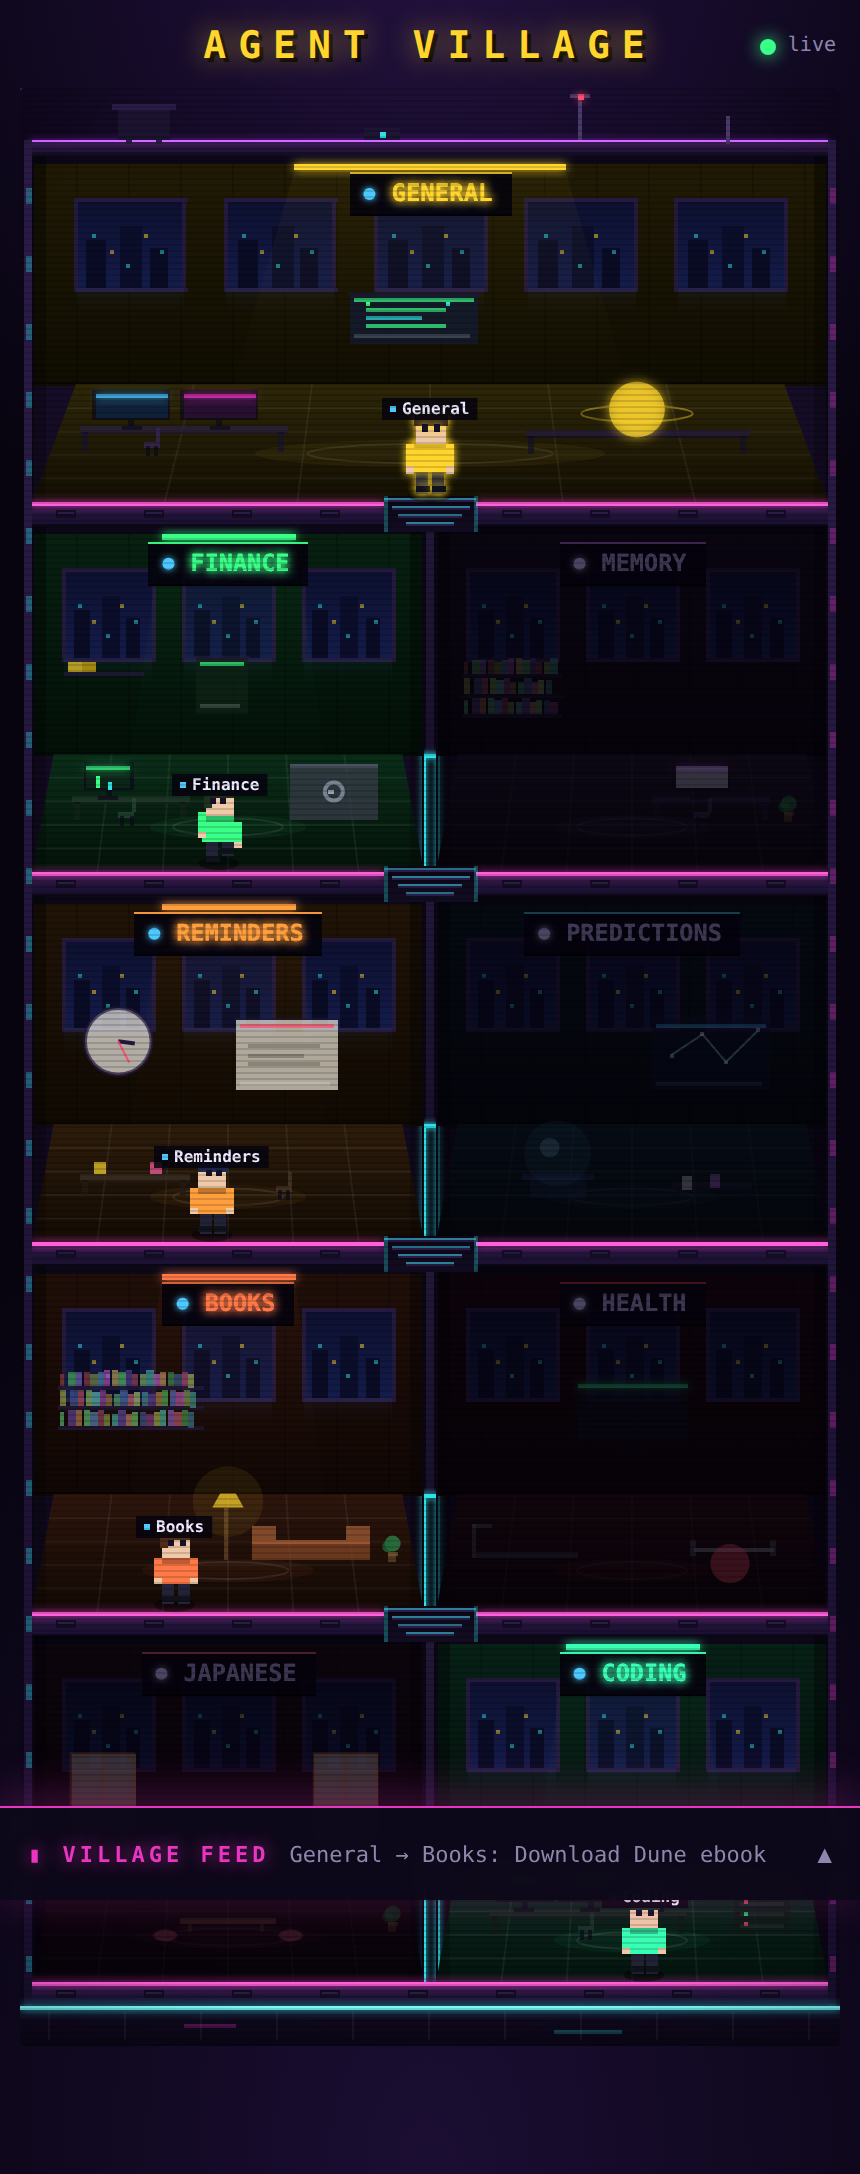
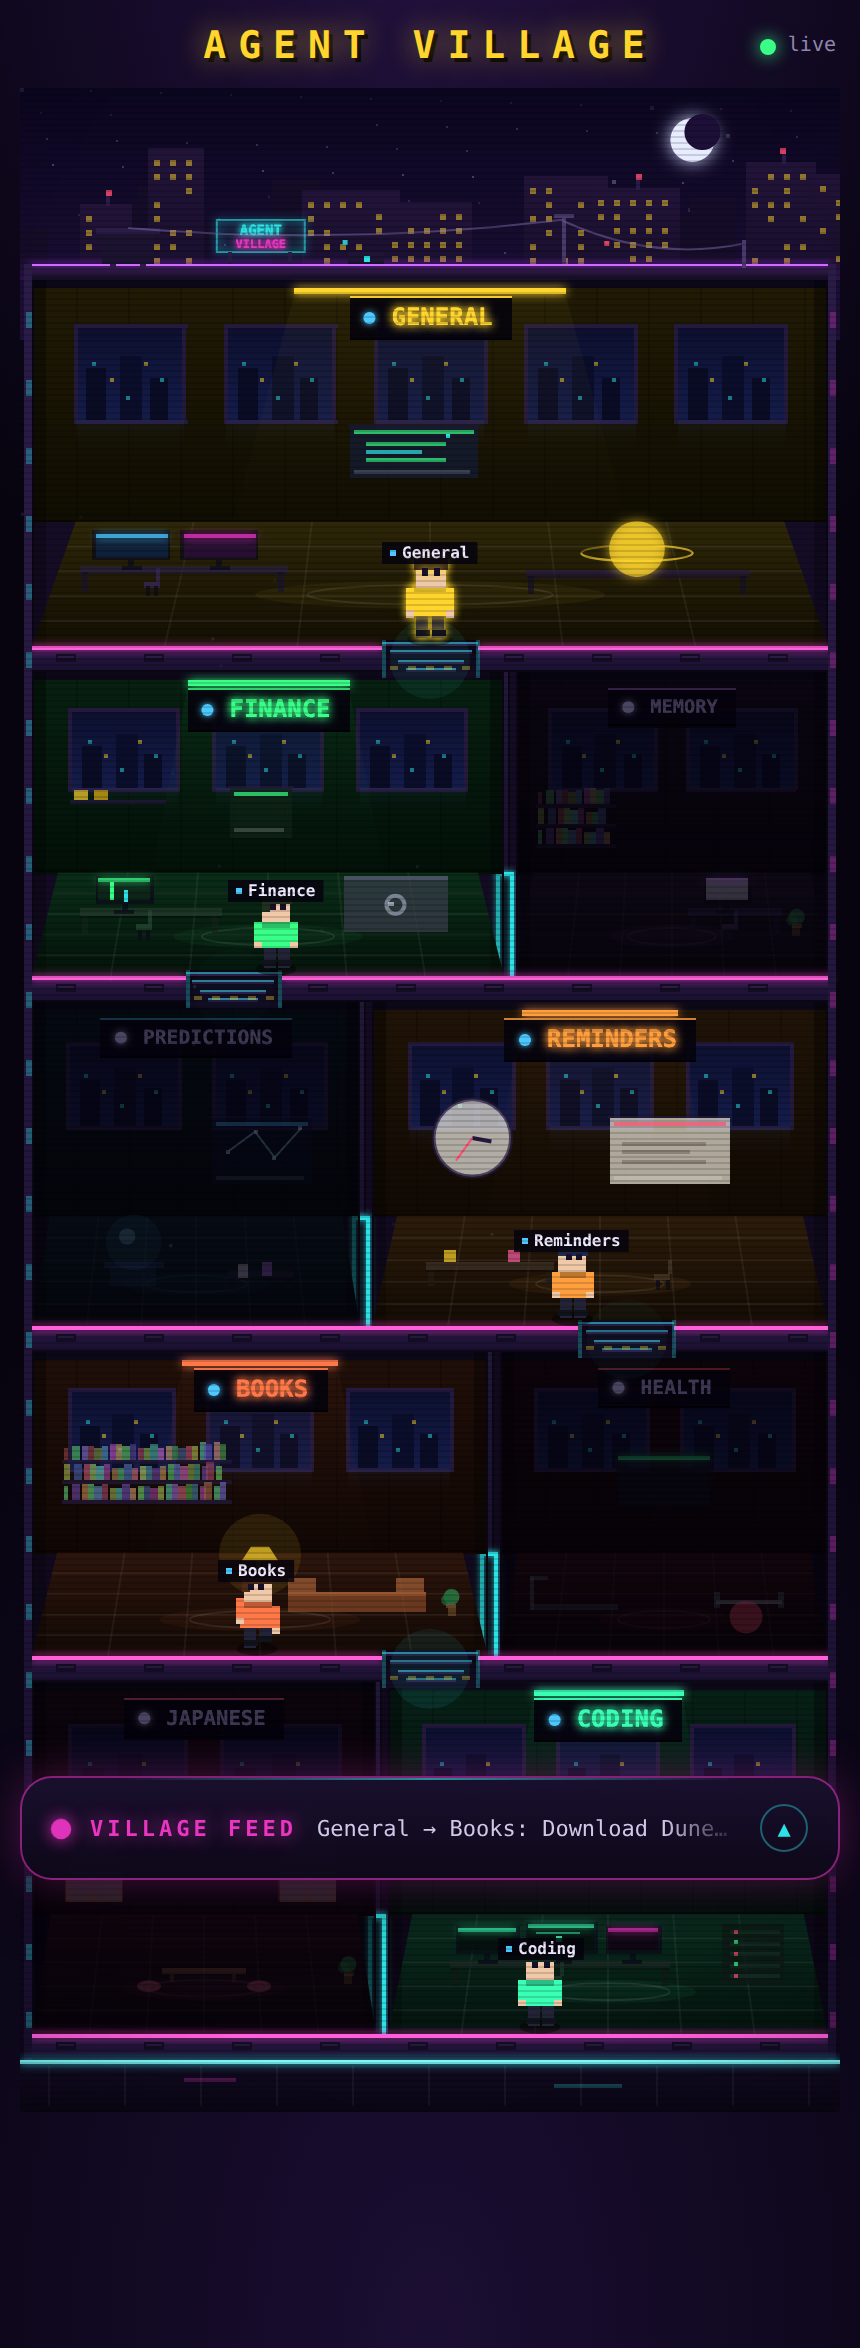
Complex layered design: parallax city, irregular floor plan, zigzag stairs, floating dock
- New sky band above the roof: gradient night sky, stars, moon, two parallax
  city silhouette layers with lit windows and beacon antennas, rooftop
  AGENT VILLAGE holo-billboard, sagging power cables with blinking lights
- Irregular floor plan: per-floor height multipliers and per-room width
  fractions (Finance 60/Memory 40, Predictions 42/Reminders 58, Books 58/
  Health 42, Japanese 44/Coding 56) driven by a LAYOUT spec
- Stairwells offset per floor (center/left/right/center) so General zigzags
  through rooms and staircases when delegating; hazard chevrons + glow pulse
  on stair openings; multi-floor route planner (routeFloors)
- Atmosphere layer: drifting dust motes through the interior, stairwell glow
  pulses, cable blink lights
- Floating pill feed dock (rounded, neon border, pulse dot, circled chevron,
  fade-out marquee) + page bottom padding so the ground floor is never hidden

diff --git a/index.html b/index.html
@@ -16,7 +16,7 @@
     radial-gradient(120% 60% at 50% -5%,#241242 0%,transparent 60%),
     radial-gradient(130% 90% at 50% 100%,#1b0e33 0%,var(--bg0) 60%),var(--bg0);
     color:var(--ink);font-family:ui-monospace,"SF Mono",Menlo,Consolas,monospace;-webkit-font-smoothing:none}
-  .wrap{max-width:520px;margin:0 auto;padding:12px 10px calc(64px + env(safe-area-inset-bottom))}
+  .wrap{max-width:520px;margin:0 auto;padding:12px 10px calc(118px + env(safe-area-inset-bottom))}
   header{display:flex;align-items:center;justify-content:center;position:relative;margin-bottom:10px}
   h1{font-size:19px;margin:0;letter-spacing:6px;color:var(--gold);font-weight:800;
     text-shadow:0 0 14px rgba(255,213,46,.65),2px 2px 0 #000}
@@ -40,15 +40,24 @@
     border:6px solid transparent;border-top-color:#f8f4ff;border-bottom:0}
   .bubble.show{opacity:1}
 
-  /* ---------- village feed dock ---------- */
-  .dock{position:fixed;left:0;right:0;bottom:0;z-index:20;max-width:520px;margin:0 auto;
-    background:rgba(13,8,26,.97);border-top:1px solid var(--pink);
-    box-shadow:0 -4px 26px rgba(233,53,193,.28);backdrop-filter:blur(6px);
-    padding-bottom:env(safe-area-inset-bottom)}
-  .dock .bar{display:flex;align-items:center;gap:10px;height:46px;padding:0 14px;cursor:pointer;user-select:none}
-  .dock .bar .t{font-size:11px;font-weight:800;letter-spacing:2px;color:var(--pink);text-shadow:0 0 9px rgba(233,53,193,.75)}
-  .dock .bar .last{flex:1;font-size:11px;color:var(--muted);white-space:nowrap;overflow:hidden;text-overflow:ellipsis}
-  .dock .bar .chev{transition:transform .25s;color:var(--muted);font-size:12px}
+  /* ---------- village feed dock (floating pill) ---------- */
+  .dock{position:fixed;left:50%;transform:translateX(-50%);bottom:calc(10px + env(safe-area-inset-bottom));
+    z-index:20;width:calc(100% - 20px);max-width:500px;
+    background:linear-gradient(180deg,rgba(26,16,46,.97),rgba(14,8,26,.97));
+    border:1px solid rgba(233,53,193,.55);border-radius:16px;overflow:hidden;
+    box-shadow:0 0 22px rgba(233,53,193,.30),0 8px 30px rgba(4,2,12,.7);backdrop-filter:blur(8px)}
+  .dock .bar{display:flex;align-items:center;gap:10px;height:50px;padding:0 15px;cursor:pointer;user-select:none;position:relative}
+  .dock .bar::before{content:"";position:absolute;top:0;left:12%;right:12%;height:1px;
+    background:linear-gradient(90deg,transparent,rgba(45,226,230,.6),transparent)}
+  .dock .bar .pulse{width:9px;height:9px;border-radius:50%;background:var(--pink);flex:none;
+    box-shadow:0 0 8px var(--pink);animation:dockpulse 2.2s ease-in-out infinite}
+  @keyframes dockpulse{0%,100%{opacity:.5;transform:scale(.85)}50%{opacity:1;transform:scale(1.15)}}
+  .dock .bar .t{font-size:11px;font-weight:800;letter-spacing:2px;color:var(--pink);text-shadow:0 0 9px rgba(233,53,193,.75);flex:none}
+  .dock .bar .last{flex:1;font-size:11px;color:#cfc8e8;white-space:nowrap;overflow:hidden;text-overflow:ellipsis;
+    -webkit-mask-image:linear-gradient(90deg,#000 82%,transparent)}
+  .dock .bar .chev{transition:transform .25s;color:var(--cyan);font-size:11px;flex:none;
+    width:24px;height:24px;border:1px solid rgba(45,226,230,.4);border-radius:50%;
+    display:flex;align-items:center;justify-content:center}
   .dock.open .bar .chev{transform:rotate(180deg)}
   .dock .body{height:0;overflow:hidden;transition:height .28s ease}
   .dock.open .body{height:44vh}
@@ -101,7 +110,8 @@
 
 <div class="dock" id="dock">
   <div class="bar" id="dockBar">
-    <span class="t">▮ VILLAGE FEED</span>
+    <span class="pulse"></span>
+    <span class="t">VILLAGE FEED</span>
     <span class="last" id="dockLast">no delegations yet</span>
     <span class="chev">▲</span>
   </div>
@@ -125,8 +135,20 @@ const bubble=document.getElementById('bubble');
 const connEl=document.getElementById('conn'), connText=document.getElementById('connText');
 
 let AGENTS=[], byId={}, rooms={};
-let W=0,H=0,dpr=1, floorH=0, shaftX=0, shaftW=0, roofH=34, groundH=20, slabH=12;
+let W=0,H=0,dpr=1, floorH=0, shaftX=0, shaftW=0, roofH=96, groundH=26, slabH=13;
 const FLOORS=5;
+/* Irregular floor plan: per-floor height multiplier + room widths (fractions).
+   STAIRX: x-fraction of the stairwell in the slab BELOW each floor — offset
+   per floor so General zigzags down through the building. */
+const LAYOUT=[
+  {f:5,hMul:1.14,rooms:[['general',1]]},
+  {f:4,hMul:0.96,rooms:[['finance',0.60],['memory',0.40]]},
+  {f:3,hMul:1.02,rooms:[['predictions',0.42],['reminders',0.58]]},
+  {f:2,hMul:0.96,rooms:[['books',0.58],['health',0.42]]},
+  {f:1,hMul:1.10,rooms:[['japanese',0.44],['coding',0.56]]},
+];
+const STAIRX={5:0.50,4:0.26,3:0.74,2:0.50};
+let FLOORS_GEO=[]; // computed: {f,top,h,feetY,stairAbsX,walls:[x,...]}
 const seenDeleg=new Set();
 const DOT_HEX={working:'#39ff88',active:'#39ff88',idle:'#ff9e3d',afk:'#4dc9ff',offline:'#4a4560'};
 
@@ -146,26 +168,33 @@ async function boot(){
 /* ============ layout ============ */
 function layout(){
   W=stage.clientWidth;
-  floorH=Math.max(150,Math.min(235,Math.round(W*0.45)));
-  H=roofH+FLOORS*floorH+groundH;
+  floorH=Math.max(140,Math.min(225,Math.round(W*0.42)));
+  const wall=6, innerX=6, innerW=W-12;
+  // accumulate floor tops from the roof down using per-floor multipliers
+  let y=roofH; FLOORS_GEO=[]; rooms={};
+  LAYOUT.forEach(spec=>{
+    const fh=Math.round(floorH*spec.hMul), h=fh-slabH, feetY=y+h-5;
+    const geo={f:spec.f,top:y,h,feetY,stairAbsX:(STAIRX[spec.f]!=null?STAIRX[spec.f]*W:null),walls:[]};
+    let cx=innerX;
+    spec.rooms.forEach(([id,frac],i)=>{
+      let w=Math.round(innerW*frac)-(i<spec.rooms.length-1?wall/2:0);
+      if(i>0){cx+=wall; w-=wall/2;}
+      rooms[id]={x:cx,y,w,h,feetY,cx:cx+w/2,floor:spec.f,
+        walkMin:cx+w*0.10,walkMax:cx+w*0.90};
+      cx+=w;
+      if(i<spec.rooms.length-1)geo.walls.push(cx);
+    });
+    FLOORS_GEO.push(geo);
+    y+=fh;
+  });
+  H=y+groundH;
   stage.style.height=H+'px';
   dpr=Math.min(window.devicePixelRatio||1,2);
   for(const c of [bg,fg]){c.width=W*dpr;c.height=H*dpr;}
   bctx.setTransform(dpr,0,0,dpr,0,0); fctx.setTransform(dpr,0,0,dpr,0,0);
-  // connected rooms: a thin shared wall in the center instead of a shaft
-  shaftW=6; shaftX=Math.round(W/2-shaftW/2);
-  rooms={};
-  AGENTS.forEach(a=>{
-    const top=roofH+(FLOORS-a.floor)*floorH, h=floorH-slabH;
-    let x,w;
-    if(a.slot==='full'){x=6;w=W-12;}
-    else if(a.slot==='left'){x=6;w=shaftX-6;}
-    else {x=shaftX+shaftW;w=W-6-x;}
-    const feetY=top+h-5;
-    rooms[a.id]={x,y:top,w,h,feetY,cx:x+w/2,walkMin:x+w*0.10,walkMax:x+w*0.90};
-  });
   drawBackground();
 }
+function floorGeo(f){return FLOORS_GEO.find(g=>g.f===f);}
 
 /* ============ paint helpers ============ */
 function R(ctx,x,y,w,h,c){ctx.fillStyle=c;ctx.fillRect(Math.round(x),Math.round(y),Math.ceil(w),Math.ceil(h));}
@@ -183,71 +212,118 @@ function litFactor(st){return st==='working'||st==='active'?1:st==='idle'?0.72:s
 /* ============ background: the building ============ */
 function drawBackground(){
   bctx.clearRect(0,0,W,H);
-  // distant stars
-  for(let i=0;i<46;i++){const sx=(i*97)%W,sy=(i*61)%H;R(bctx,sx,sy,1,1,'rgba(190,170,255,.16)');}
+  drawSky();
   // building body
   vgrad(bctx,5,roofH-4,W-10,H-roofH-groundH+8,'#160d28','#0e0819');
-  drawRoof(); drawShaft();
+  drawRoofDeco(); drawWalls();
   AGENTS.forEach(a=>drawRoom(a));
-  drawSlabs(); drawFrame(); drawGround();
+  drawSlabs(); drawFrame(); drawGround(); drawCables();
 }
 
-function drawRoof(){
+/* --- layered sky: gradient, stars, moon, two parallax city silhouettes --- */
+function drawSky(){
+  vgrad(bctx,0,0,W,roofH+30,'#0b0620','#1d1038');
+  for(let i=0;i<70;i++){const sx=(i*89)%W,sy=(i*53)%(roofH-8);
+    R(bctx,sx,sy,i%9===0?1.6:1,i%9===0?1.6:1,`rgba(200,185,255,${0.10+(i%5)*0.05})`);}
+  // moon with glow
+  bctx.save();bctx.shadowColor='#cfd6ff';bctx.shadowBlur=18;
+  bctx.fillStyle='#e8ecff';bctx.beginPath();bctx.arc(W*0.82,26,11,0,7);bctx.fill();bctx.restore();
+  bctx.fillStyle='#1d1038';bctx.beginPath();bctx.arc(W*0.82+5,22,9,0,7);bctx.fill();
+  // far city (darkest, small)
+  bctx.fillStyle='#150c28';
+  for(let i=0;i<14;i++){const bw2=14+(i*37)%22, bx=(i*67)%W, bh2=18+(i*29)%26;
+    bctx.fillRect(bx,roofH-8-bh2,bw2,bh2+8);}
+  // near city (lighter, taller, lit windows + antenna dots)
+  for(let i=0;i<8;i++){
+    const bw2=26+(i*53)%30, bx=(i*111+30)%W, bh2=34+(i*41)%34;
+    vgrad(bctx,bx,roofH-4-bh2,bw2,bh2+4,'#221439','#180f2c');
+    for(let wy2=roofH-bh2+2;wy2<roofH-6;wy2+=7)
+      for(let wx2=bx+3;wx2<bx+bw2-3;wx2+=8)
+        if(hash2(wx2,wy2)<0.28)R(bctx,wx2,wy2,2.5,3,hash2(wy2,wx2)<0.5?'rgba(255,213,46,.5)':'rgba(45,226,230,.45)');
+    if(i%3===0){R(bctx,bx+bw2/2,roofH-10-bh2,1.5,7,'#2b1c47');R(bctx,bx+bw2/2-0.5,roofH-11-bh2,2.5,2.5,'rgba(255,77,109,.8)');}
+  }
+  // haze line where city meets roof
+  vgrad(bctx,0,roofH-14,W,14,'rgba(176,38,255,0)','rgba(176,38,255,.14)');
+}
+function hash2(i,j){let h=(i*374761393+j*668265263)^(i<<7);h=(h^(h>>13))*1274126177;return ((h^(h>>16))>>>0)/4294967295;}
+
+function drawRoofDeco(){
   R(bctx,5,roofH-8,W-10,6,'#241638'); R(bctx,5,roofH-8,W-10,1,'#b026ff');
   bctx.save();bctx.shadowColor='#b026ff';bctx.shadowBlur=6;R(bctx,5,roofH-8,W-10,1,'#d06bff');bctx.restore();
-  // water tank
-  R(bctx,W*0.12,roofH-26,26,18,'#1c1330');R(bctx,W*0.12-3,roofH-26,32,3,'#2b1c47');
-  R(bctx,W*0.12+4,roofH-8,3,2,'#2b1c47');R(bctx,W*0.12+19,roofH-8,3,2,'#2b1c47');
-  // antennas
-  R(bctx,W*0.68,roofH-30,2,22,'#4a3a6a');R(bctx,W*0.68-4,roofH-31,10,2,'#4a3a6a');
-  R(bctx,W*0.86,roofH-20,2,14,'#4a3a6a');
-  // AC units
-  R(bctx,W*0.42,roofH-14,18,6,'#1e1433');R(bctx,W*0.44,roofH-12,3,3,'#2de2e6');
+  R(bctx,W*0.10,roofH-26,26,18,'#1c1330');R(bctx,W*0.10-3,roofH-26,32,3,'#2b1c47'); // water tank
+  R(bctx,W*0.10+4,roofH-8,3,2,'#2b1c47');R(bctx,W*0.10+19,roofH-8,3,2,'#2b1c47');
+  R(bctx,W*0.66,roofH-32,2,24,'#4a3a6a');R(bctx,W*0.66-4,roofH-33,10,2,'#4a3a6a'); // antennas
+  R(bctx,W*0.88,roofH-20,2,14,'#4a3a6a');
+  R(bctx,W*0.40,roofH-14,18,6,'#1e1433');R(bctx,W*0.42,roofH-12,3,3,'#2de2e6');   // AC
+  // rooftop holo billboard
+  const bbx=W*0.24,bby=roofH-30;
+  R(bctx,bbx,bby,44,16,'rgba(45,226,230,.10)');
+  bctx.save();bctx.shadowColor='#2de2e6';bctx.shadowBlur=8;
+  bctx.strokeStyle='rgba(45,226,230,.6)';bctx.lineWidth=1;bctx.strokeRect(bbx,bby,44,16);bctx.restore();
+  neonText(bctx,'AGENT',bbx+22,bby+5.5,7,'#2de2e6',6);
+  neonText(bctx,'VILLAGE',bbx+22,bby+12.5,6,'#e935c1',6);
+  R(bctx,bbx+6,bby+16,2,6,'#2b1c47');R(bctx,bbx+36,bby+16,2,6,'#2b1c47');
 }
 
-function drawShaft(){
-  // shared center wall on split floors (1-4), with a neon-framed door opening
-  for(let f=1;f<FLOORS;f++){
-    const top=roofH+(FLOORS-f)*floorH, h=floorH-slabH;
-    vgrad(bctx,shaftX,top,shaftW,h,'#221838','#150e26');
-    R(bctx,shaftX,top,1,h,'#0a0614');R(bctx,shaftX+shaftW-1,top,1,h,'#0a0614');
-    // door opening at walk level
-    const dh=h*0.34, dy=top+h-dh;
-    R(bctx,shaftX-1,dy,shaftW+2,dh,'#07040f');
-    bctx.save();bctx.shadowColor='#2de2e6';bctx.shadowBlur=6;
-    R(bctx,shaftX-1,dy,shaftW+2,1.5,'#2de2e6');
-    R(bctx,shaftX-1,dy,1.5,dh,'#2de2e6');R(bctx,shaftX+shaftW-0.5,dy,1.5,dh,'#2de2e6');
-    bctx.restore();
+/* sagging power cables between rooftop masts (blink lights live in fg) */
+let CABLE_PTS=[];
+function drawCables(){
+  CABLE_PTS=[];
+  const runs=[[W*0.10+13,roofH-26,W*0.66,roofH-30],[W*0.66,roofH-30,W*0.88,roofH-18]];
+  bctx.strokeStyle='rgba(150,130,200,.4)';bctx.lineWidth=1;
+  for(const[ax,ay,bx2,by2] of runs){
+    bctx.beginPath();bctx.moveTo(ax,ay);
+    const mx=(ax+bx2)/2, my=Math.max(ay,by2)+9;
+    bctx.quadraticCurveTo(mx,my,bx2,by2);bctx.stroke();
+    CABLE_PTS.push([mx,my-2],[(ax+mx)/2,(ay+my)/2+1]);
   }
 }
 
+/* shared walls between rooms on each floor, with neon-framed door openings */
+function drawWalls(){
+  FLOORS_GEO.forEach(g=>{
+    g.walls.forEach(wx=>{
+      vgrad(bctx,wx-3,g.top,6,g.h,'#221838','#150e26');
+      R(bctx,wx-3,g.top,1,g.h,'#0a0614');R(bctx,wx+2,g.top,1,g.h,'#0a0614');
+      const dh=g.h*0.34, dy=g.top+g.h-dh;
+      R(bctx,wx-4,dy,8,dh,'#07040f');
+      bctx.save();bctx.shadowColor='#2de2e6';bctx.shadowBlur=6;
+      R(bctx,wx-4,dy,8,1.5,'#2de2e6');
+      R(bctx,wx-4,dy,1.5,dh,'#2de2e6');R(bctx,wx+2.5,dy,1.5,dh,'#2de2e6');
+      bctx.restore();
+    });
+  });
+}
+
 function drawSlabs(){
-  const gapW=46, gx=W/2-gapW/2;
-  for(let f=1;f<=FLOORS;f++){
-    const y=roofH+f*floorH-slabH;
-    const isBottom=(f===FLOORS);
-    // two slab segments with a stairwell gap in the middle (except ground slab)
-    const segs=isBottom?[[5,W-10]]:[[5,gx-5],[gx+gapW,W-(gx+gapW)-5]];
+  const gapW=48;
+  FLOORS_GEO.forEach((g,gi)=>{
+    const y=g.top+g.h;               // slab under this floor
+    const isBottom=(gi===FLOORS_GEO.length-1);
+    const sx0=g.stairAbsX, gx=sx0!=null?sx0-gapW/2:null;
+    const segs=(isBottom||gx==null)?[[5,W-10]]:[[5,gx-5],[gx+gapW,W-(gx+gapW)-5]];
     for(const[sx2,sw2] of segs){
+      if(sw2<=0)continue;
       vgrad(bctx,sx2,y,sw2,slabH,'#261741','#1a1030');
       R(bctx,sx2,y,sw2,1.5,'#e935c1');
       bctx.save();bctx.shadowColor='#e935c1';bctx.shadowBlur=8;R(bctx,sx2,y,sw2,1.5,'#ff5fd8');bctx.restore();
       R(bctx,sx2,y+slabH-1,sw2,1,'rgba(0,0,0,.5)');
       for(let x=sx2+13;x<sx2+sw2-14;x+=44){R(bctx,x,y+4,10,4,'#130c22');R(bctx,x+1,y+5,8,1,'#2b1c47');}
     }
-    if(!isBottom){
-      // stairwell opening: dark well + glowing steps
+    if(!isBottom&&gx!=null){
+      // stairwell opening with glowing steps
       vgrad(bctx,gx,y-3,gapW,slabH+6,'#0b0716','#120c22');
-      const steps=4;
-      for(let i=0;i<steps;i++){
-        const stw=gapW*(1-i*0.16), stx=W/2-stw/2, sty=y-2+i*(slabH+4)/steps;
+      for(let i=0;i<4;i++){
+        const stw=gapW*(1-i*0.16), stx=sx0-stw/2, sty=y-2+i*(slabH+4)/4;
         R(bctx,stx,sty,stw,2,'#2b1c47');
         R(bctx,stx,sty,stw,1,'rgba(45,226,230,.5)');
       }
       R(bctx,gx,y-3,1.5,slabH+6,'rgba(45,226,230,.3)');
       R(bctx,gx+gapW-1.5,y-3,1.5,slabH+6,'rgba(45,226,230,.3)');
+      // hazard chevrons on the opening edge
+      for(let cx2=gx+4;cx2<gx+gapW-6;cx2+=9)R(bctx,cx2,y+slabH-3,4,2,'rgba(255,213,46,.35)');
     }
-  }
+  });
 }
 
 function drawFrame(){
@@ -558,7 +634,26 @@ function drawAmbient(t){
   });
   // roof beacon
   if(Math.sin(t*2.6)>0.3){fctx.save();fctx.shadowColor='#ff4d6d';fctx.shadowBlur=8;
-    R(fctx,W*0.68,roofH-31,3,3,'#ff4d6d');fctx.restore();}
+    R(fctx,W*0.66,roofH-33,3,3,'#ff4d6d');fctx.restore();}
+  // blinking cable lights
+  CABLE_PTS.forEach((p,i)=>{
+    if(Math.sin(t*2+i*2.4)>0.4){fctx.fillStyle=i%2?'rgba(255,77,109,.85)':'rgba(45,226,230,.85)';
+      fctx.fillRect(p[0]-1,p[1]-1,2.5,2.5);}
+  });
+  // drifting dust motes through the building interior
+  for(let i=0;i<16;i++){
+    const mx=(hash2(i,5)*W+Math.sin(t*0.22+i*1.7)*26+t*3.4*(1+(i%3)*0.4))%W;
+    const my=roofH+((hash2(i,11)*(H-roofH-groundH))+Math.cos(t*0.18+i)*14+H)%(H-roofH-groundH);
+    const al=0.05+0.07*Math.max(0,Math.sin(t*0.8+i*2.2));
+    fctx.fillStyle=`rgba(200,190,255,${al})`;fctx.fillRect(mx,my,1.6,1.6);
+  }
+  // stairwell glow pulses
+  FLOORS_GEO.forEach((g,gi)=>{
+    if(gi===FLOORS_GEO.length-1||g.stairAbsX==null)return;
+    const y=g.top+g.h;
+    fctx.fillStyle=`rgba(45,226,230,${0.05+0.04*Math.sin(t*2.4+gi*1.8)})`;
+    fctx.beginPath();fctx.arc(g.stairAbsX,y+slabH/2,20,0,7);fctx.fill();
+  });
 }
 
 /* ============ actors ============ */
@@ -639,10 +734,26 @@ function stepActor(a,o,dt){
   if(Math.abs(o.targetX-o.x)<2){o.targetX=null;o.pauseT=1+Math.random()*(4-2.5*activity);}
 }
 
+/* route through successive per-floor stairwells (zigzag descent/ascent) */
+function routeFloors(fromF,toF,targetX){
+  const pts=[];
+  let f=fromF;
+  while(f>toF){ // descend: stairs live in the slab below floor f
+    const g=floorGeo(f), below=floorGeo(f-1);
+    pts.push({x:g.stairAbsX,y:g.feetY},{x:g.stairAbsX,y:below.feetY});
+    f--;
+  }
+  while(f<toF){ // ascend: stairs of the floor above
+    const above=floorGeo(f+1);
+    pts.push({x:above.stairAbsX,y:floorGeo(f).feetY},{x:above.stairAbsX,y:above.feetY});
+    f++;
+  }
+  pts.push({x:targetX,y:floorGeo(toF).feetY});
+  return pts;
+}
 function planWalk(ev){
   const tr=rooms[ev.to]; if(!tr)return false;
-  const gr=rooms.general, sx=shaftX+shaftW/2;
-  walker.path=[{x:sx,y:gr.feetY},{x:sx,y:tr.feetY},{x:tr.cx,y:tr.feetY}];
+  walker.path=routeFloors(rooms.general.floor,tr.floor,tr.cx);
   walker.seg=0;walker.state='out';walker.task=ev;
   return true;
 }
@@ -658,8 +769,8 @@ function stepWalker(dt){
   if(walker.state==='visit'){
     walker.t-=dt;
     if(walker.t<=0){
-      const gr=rooms.general,sx=shaftX+shaftW/2;
-      walker.path=[{x:sx,y:walker.y},{x:sx,y:gr.feetY},{x:rooms.general.cx,y:gr.feetY}];
+      const tr=rooms[walker.task.to];
+      walker.path=routeFloors(tr.floor,rooms.general.floor,rooms.general.cx);
       walker.seg=0;walker.state='back';
     }
     return;
